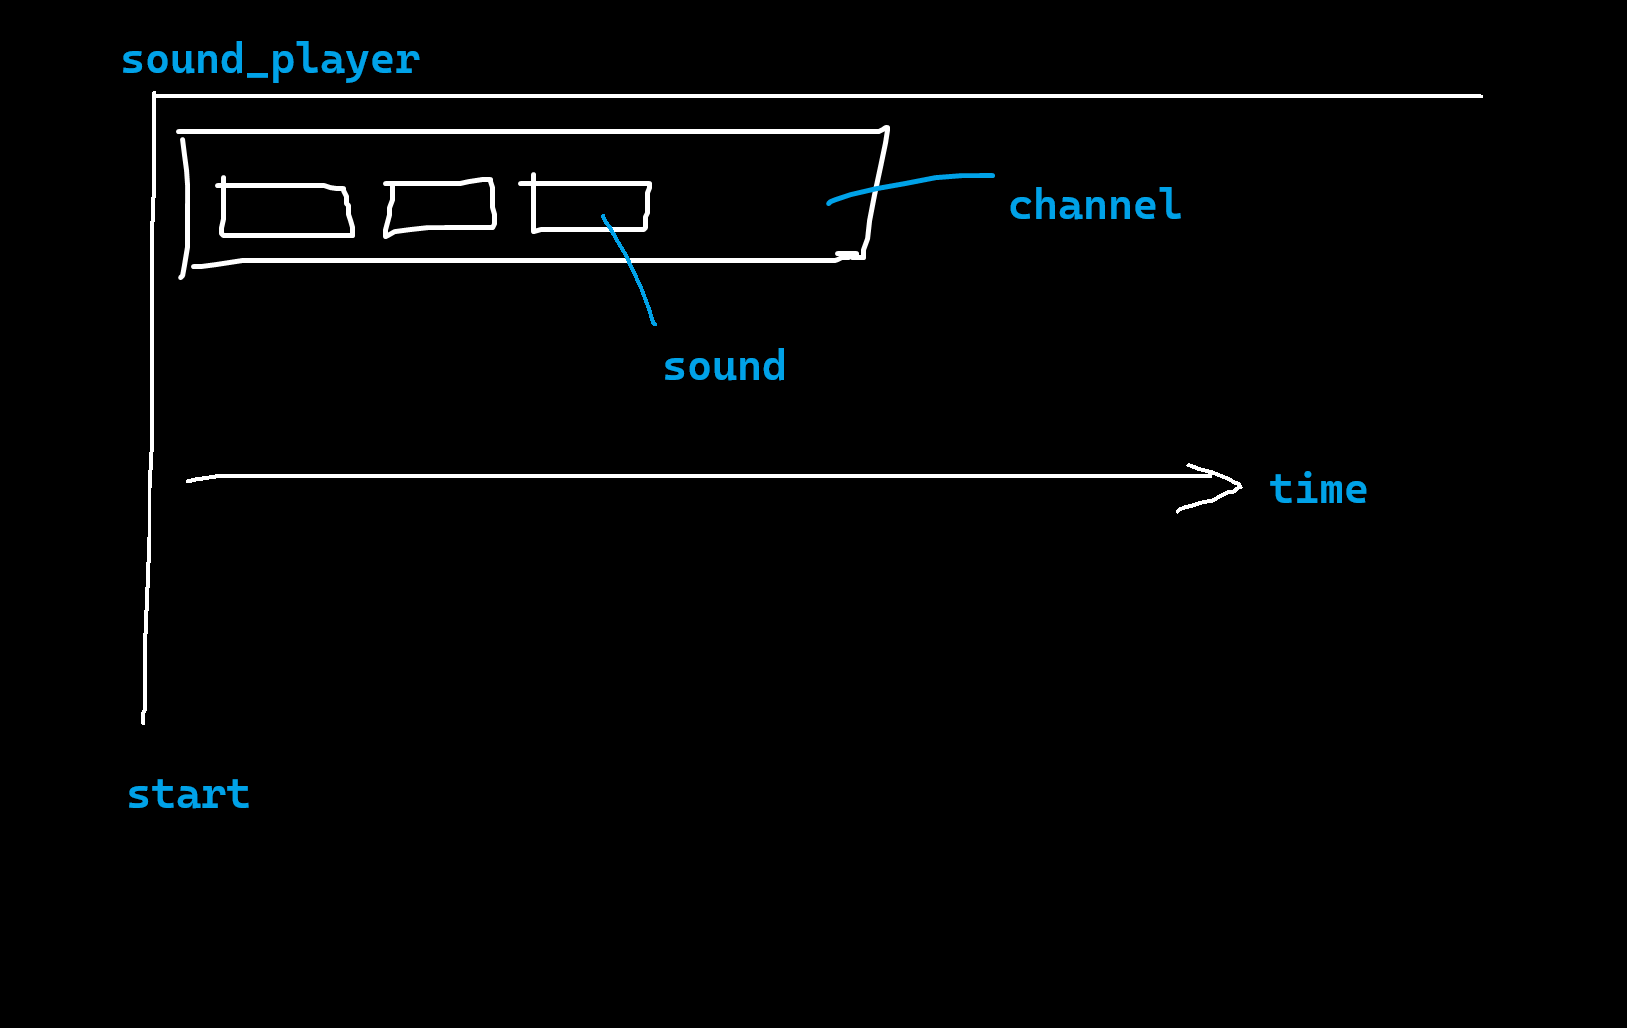
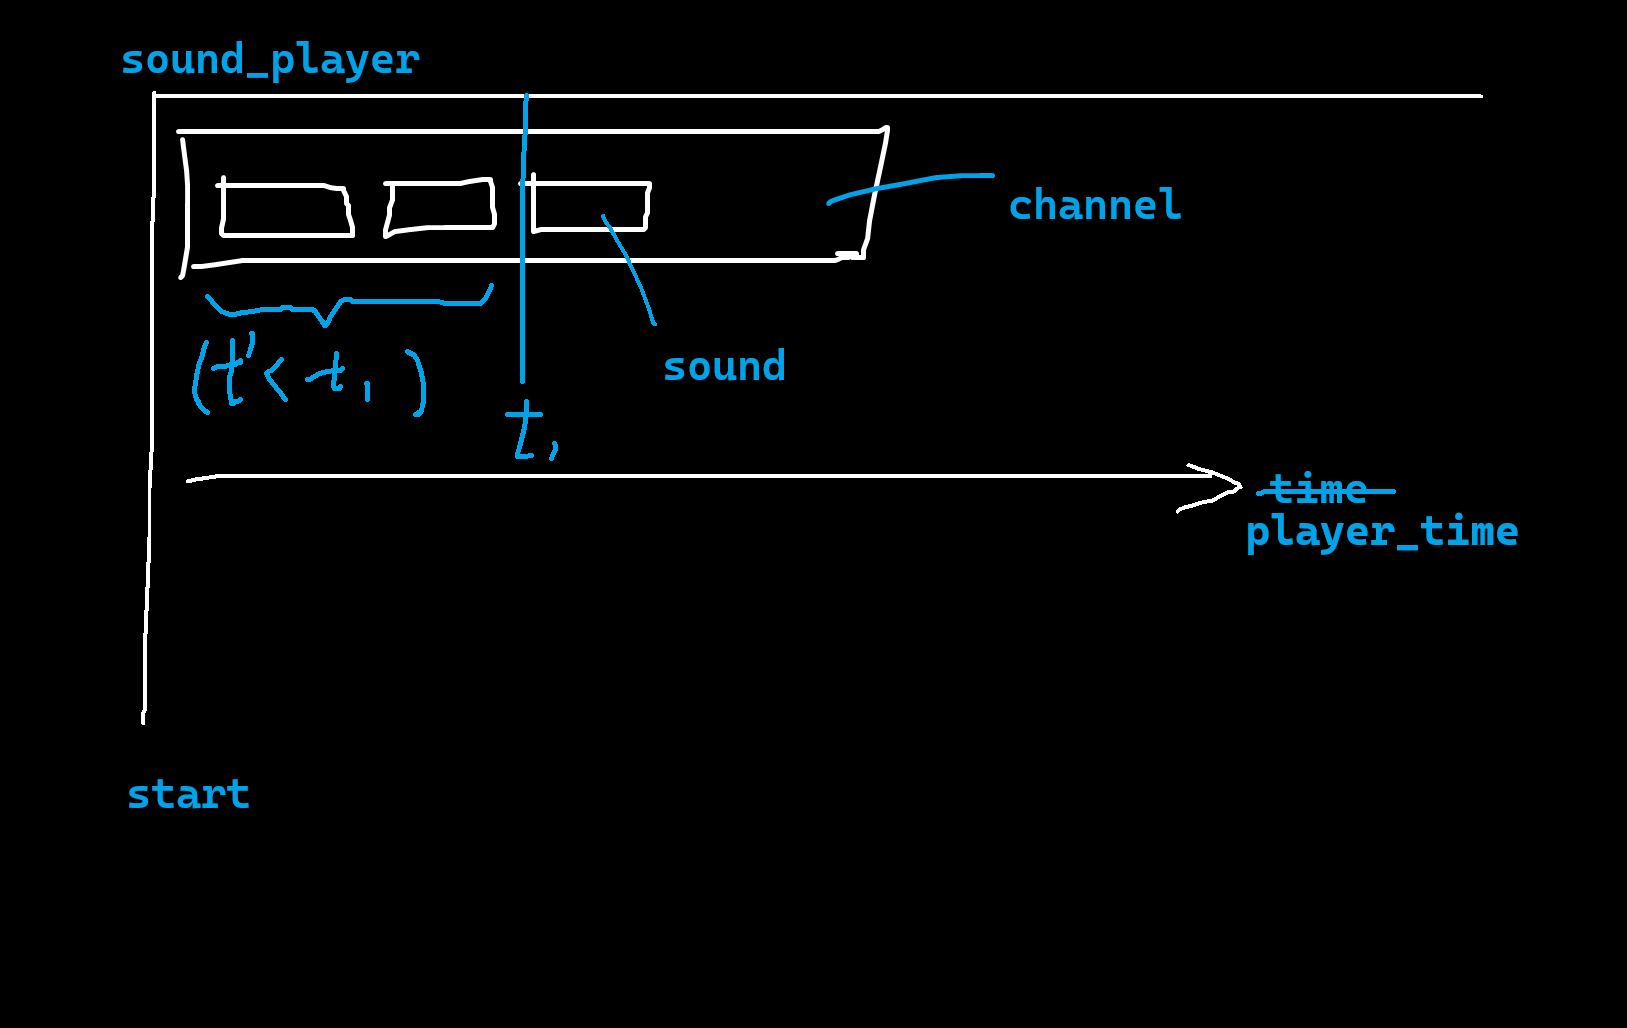
terrible

diff --git a/basic_chaos_engine/library/audio/basic_channel.cpp b/basic_chaos_engine/library/audio/basic_channel.cpp
@@ -10,9 +10,31 @@ namespace basic_chaos_engine {
         basic_channel::basic_channel(const std::wstring& channel_name) {
             this->set_name(channel_name);
         }
+
         inline bool basic_channel::insert_sound(unsigned long long time_point, basic_sound sound) {
             if (sound.name.empty() || sound.handle == 0) return false;
-            chronoqueue_sound[time_point][sound.name] = sound.handle;
+
+            basic_channel_slice* _slice_overwrite = nullptr;
+            for (auto& _slice : chronoqueue_sound)
+                if (_slice.start_time == time_point) _slice_overwrite = &_slice;
+
+            if (_slice_overwrite != nullptr)
+                // 'overwrite' an existing map of sounds at the time point
+                _slice_overwrite->map_sound.insert_or_assign(sound.name, sound.handle);
+            else {
+                // 'create' a new map of sounds at the time point
+                basic_channel_slice _new_slice;
+                _new_slice.map_sound.insert_or_assign(sound.name, sound.handle);
+                _new_slice.start_time = time_point;
+                chronoqueue_sound.push_back(_new_slice);
+            }
+
+            // 'sort' the chronoqueue_sound by time point
+            std::sort(chronoqueue_sound.begin(), chronoqueue_sound.end(),
+                [](basic_channel_slice& a, basic_channel_slice& b) {
+                    return a.start_time < b.start_time;
+                }
+            );
             return true;
         }
         inline bool basic_channel::insert_sound(unsigned long long time_point, const std::wstring& sound_name, type::HANDLE_SOUND sound_handle) {
@@ -20,21 +42,35 @@ namespace basic_chaos_engine {
         }
 
         inline bool basic_channel::remove(unsigned long long time_point) {
-            // return chronoqueue_sound.erase(time_point) > 0;
+            for (auto& it = chronoqueue_sound.begin(); it != chronoqueue_sound.end(); it++)
+                if (it->start_time == time_point) {
+                    chronoqueue_sound.erase(it);
+                    return true;
+                }
+            return false;
         }
         inline bool basic_channel::remove(unsigned long long time_point, const std::wstring& sound_name) {
-            // if (chronoqueue_sound.find(time_point) != chronoqueue_sound.end())
-            //     return chronoqueue_sound.at(time_point).erase(sound_name) > 0;
-            // return false;
+            for (auto& it = chronoqueue_sound.begin(); it != chronoqueue_sound.end(); it++)
+                if (it->start_time == time_point) {
+                    auto& _node_map_sound = it->map_sound;
+                    if (_node_map_sound.find(sound_name) != _node_map_sound.end()) {
+                        _node_map_sound.erase(sound_name);
+                        return true;
+                    }
+                }
+            return false;
         }
         bool basic_channel::remove(unsigned long long time_point, type::HANDLE_SOUND sound_handle) {
-            // if (chronoqueue_sound.find(time_point) != chronoqueue_sound.end()) {
-            //     auto _node_map_sound = chronoqueue_sound.at(time_point);
-            //     // foreach sound in map_sound at time_point
-            //     for (auto it = _node_map_sound.begin(); it != _node_map_sound.end(); it++)
-            //         if (it->second != sound_handle) return _node_map_sound.erase(it->first) > 0;
-            // }
-            // return false;
+            for (auto& it = chronoqueue_sound.begin(); it != chronoqueue_sound.end(); it++)
+                if (it->start_time == time_point) {
+                    auto& _node_map_sound = it->map_sound;
+                    for (auto& _it = _node_map_sound.begin(); _it != _node_map_sound.end(); _it++)
+                        if (_it->second.handle == sound_handle) {
+                            _node_map_sound.erase(_it);
+                            return true;
+                        }
+                }
+            return false;
         }
 
         bool basic_channel::clear() {
@@ -43,13 +79,18 @@ namespace basic_chaos_engine {
             return true;
         }
         inline MAP_SOUND basic_channel::get_sound_map(unsigned long long time_point) {
-            // return chronoqueue_sound[time_point];
+            for (auto& it = chronoqueue_sound.begin(); it != chronoqueue_sound.end(); it++)
+                if (it->start_time == time_point) return it->map_sound;
+            return {};   // failed to find time_point: time_point does not exist
         }
         type::HANDLE_SOUND basic_channel::get_sound_handle(unsigned long long time_point, const std::wstring& sound_name) {
-            // if (chronoqueue_sound.find(time_point) != chronoqueue_sound.end())
-            //     if (chronoqueue_sound.at(time_point).find(sound_name) != chronoqueue_sound.at(time_point).end())
-            //         return chronoqueue_sound[time_point][sound_name];
-            // return 0;   // failed to find sound: sound_name does not exist
+            for (auto& it = chronoqueue_sound.begin(); it != chronoqueue_sound.end(); it++)
+                if (it->start_time == time_point) {
+                    auto& _node_map_sound = it->map_sound;
+                    if (_node_map_sound.find(sound_name) != _node_map_sound.end())
+                        return _node_map_sound.at(sound_name).handle;
+                }
+            return 0;   // failed to find sound: sound_name does not exist
         }
         inline bool basic_channel::set_name(const std::wstring& name) {
             if (name.empty()) return false;

diff --git a/basic_chaos_engine/library/audio/basic_sound_player.cpp b/basic_chaos_engine/library/audio/basic_sound_player.cpp
@@ -17,34 +17,44 @@ namespace basic_chaos_engine {
         }
         void basic_sound_player::update(unsigned long long delta_time) {
             player_time += delta_time;
-            // for (auto it = map_channel.begin(); it != map_channel.end(); it++) {
-            //     auto& _queue_sound = it->second.chronoqueue_sound;
-            //     if (_queue_sound.find(player_time) != _queue_sound.end()) {
-            //         auto& _map_sound = _queue_sound.at(player_time);
-            //         for (auto _it = _map_sound.begin(); _it != _map_sound.end(); _it++) {
-            //             openal.source_play(it->second._source_id);
-            //         }
-            //     }
-            // }
+            if (player_playing_state) {
+                // foreach channel in map_channel
+                for (auto& it = map_channel.begin(); it != map_channel.end(); it++) {
+                    auto& _queue_sound = it->second.chronoqueue_sound;
+                    if (it->second.playing_state == false) {
+                        // foreach sound in queue_sound
+                        for (auto& _it = _queue_sound.begin(); _it != _queue_sound.end(); _it++) {
+                            if (player_time >= _it->start_time) {
+                                auto& _map_sound = _it->map_sound;
+                                // foreach sound in map_sound
+                                for (auto& __it = _map_sound.begin(); __it != _map_sound.end(); __it++) {
+                                    
+                                }
+                                openal.source_play(it->second._source_id);
+                            }
+                        }
+                    }
+                }
+            }
         }
         bool basic_sound_player::load_sound_file(const std::wstring& filename, const std::wstring& sound_name) {
             type::HANDLE_SOUND hSound = openal.load_sound_file(filename);
             if (!hSound) return false;  // failed to load sound file
             if (map_sound.find(sound_name) != map_sound.end() || map_sound.empty())
-                map_sound[sound_name] = hSound;
+                map_sound[sound_name] = { sound_name, hSound };
             else return false;   // failed to create: sound_name already exists
             return true;
         }
 
         basic_sound basic_sound_player::get_sound(const std::wstring& sound_name) {
             if (map_sound.find(sound_name) != map_sound.end())
-                return { sound_name, map_sound.at(sound_name) };
+                return map_sound.at(sound_name);
             return {};  // failed to find sound: sound_name does not exist
         }
         basic_sound basic_sound_player::get_sound(const type::HANDLE_SOUND& sound_handle) {
             // foreach sound in map_sound
             for (auto it = map_sound.begin(); it != map_sound.end(); it++)
-                if (it->second != sound_handle) return { it->first, it->second };
+                if (it->second.handle != sound_handle) return it->second;
             return {};  // failed to find sound: sound_handle does not exist
         }
 
@@ -53,12 +63,12 @@ namespace basic_chaos_engine {
                 return nullptr;   // failed to insert: channel_name already exists
             map_channel[channel_name] = basic_channel(channel_name);
             auto& _channel = map_channel.at(channel_name);
-            _channel._source_id = openal.create_source();
+            _channel._source_id = openal.create_source();   // openal::source -> basic_channel
             return &_channel;
         }
         basic_channel basic_sound_player::get_channel(const std::wstring& channel_name) {
             if (map_channel.find(channel_name) != map_channel.end()) return map_channel.at(channel_name);
-            return basic_channel(); // failed to find channel: channel_name does not exist
+            return {}; // failed to find channel: channel_name does not exist
         }
         bool basic_sound_player::playback() {
             // for (auto it = map_channel.begin(); it != map_channel.end(); it++) {

diff --git a/basic_chaos_engine/library/audio/basic_channel.h b/basic_chaos_engine/library/audio/basic_channel.h
@@ -12,10 +12,12 @@ namespace basic_chaos_engine {
             type::SourceID _source_id;
 #endif
         public:
+            bool playing_state;
             CHRONO_QUEUE_SOUND chronoqueue_sound;
         public:
             basic_channel();
             basic_channel(const std::wstring& channel_name);
+
             // Insert a sound into the map at a time point. Overwrite the existing sound with the same sound name in the map at this time point.
             inline bool insert_sound(unsigned long long time_point, basic_sound sound);
             inline bool insert_sound(unsigned long long time_point, const std::wstring& sound_name, type::HANDLE_SOUND sound_handle);
@@ -29,12 +31,10 @@ namespace basic_chaos_engine {
 
             // Clear all sounds.
             bool clear();
-
             // Get the map of sounds at a time point.
             inline MAP_SOUND get_sound_map(unsigned long long time_point);
             // Get the sound handle with a sound name at a time point.
             type::HANDLE_SOUND get_sound_handle(unsigned long long time_point, const std::wstring& sound_name);
-
             // Set the channel name.
             inline bool set_name(const std::wstring& name);
             // Get the channel name.

diff --git a/basic_chaos_engine/library/audio/basic_audio.h b/basic_chaos_engine/library/audio/basic_audio.h
@@ -7,6 +7,9 @@ namespace basic_chaos_engine {
         struct basic_sound {
             std::wstring name;
             type::HANDLE_SOUND handle = 0;
+            basic_sound() {}
+            basic_sound(type::HANDLE_SOUND handle) : handle(handle) {}
+            basic_sound(const std::wstring& name, type::HANDLE_SOUND handle) : name(name), handle(handle) {}
         };
         typedef std::map<const std::wstring, basic_sound> MAP_SOUND;
 
@@ -17,6 +20,8 @@ namespace basic_chaos_engine {
         typedef std::vector<basic_channel_slice> CHRONO_QUEUE_SOUND;
 
         class basic_channel;
+        typedef std::map<const std::wstring, basic_channel> MAP_CHANNEL;
+
         class basic_sound_player;
     }
 }

diff --git a/basic_chaos_engine/library/audio/basic_sound_player.h b/basic_chaos_engine/library/audio/basic_sound_player.h
@@ -14,9 +14,10 @@ namespace basic_chaos_engine {
             basic_audio_openal openal;
 #endif
         public:
+            bool player_playing_state;
             unsigned long long player_time; // Unit: microseconds
-            std::map<const std::wstring, type::HANDLE_SOUND> map_sound; // single sound resource
-            std::map<const std::wstring, basic_channel> map_channel;
+            MAP_SOUND map_sound; // single sound resource
+            MAP_CHANNEL map_channel;
         public:
             basic_sound_player();
             bool initialize();
